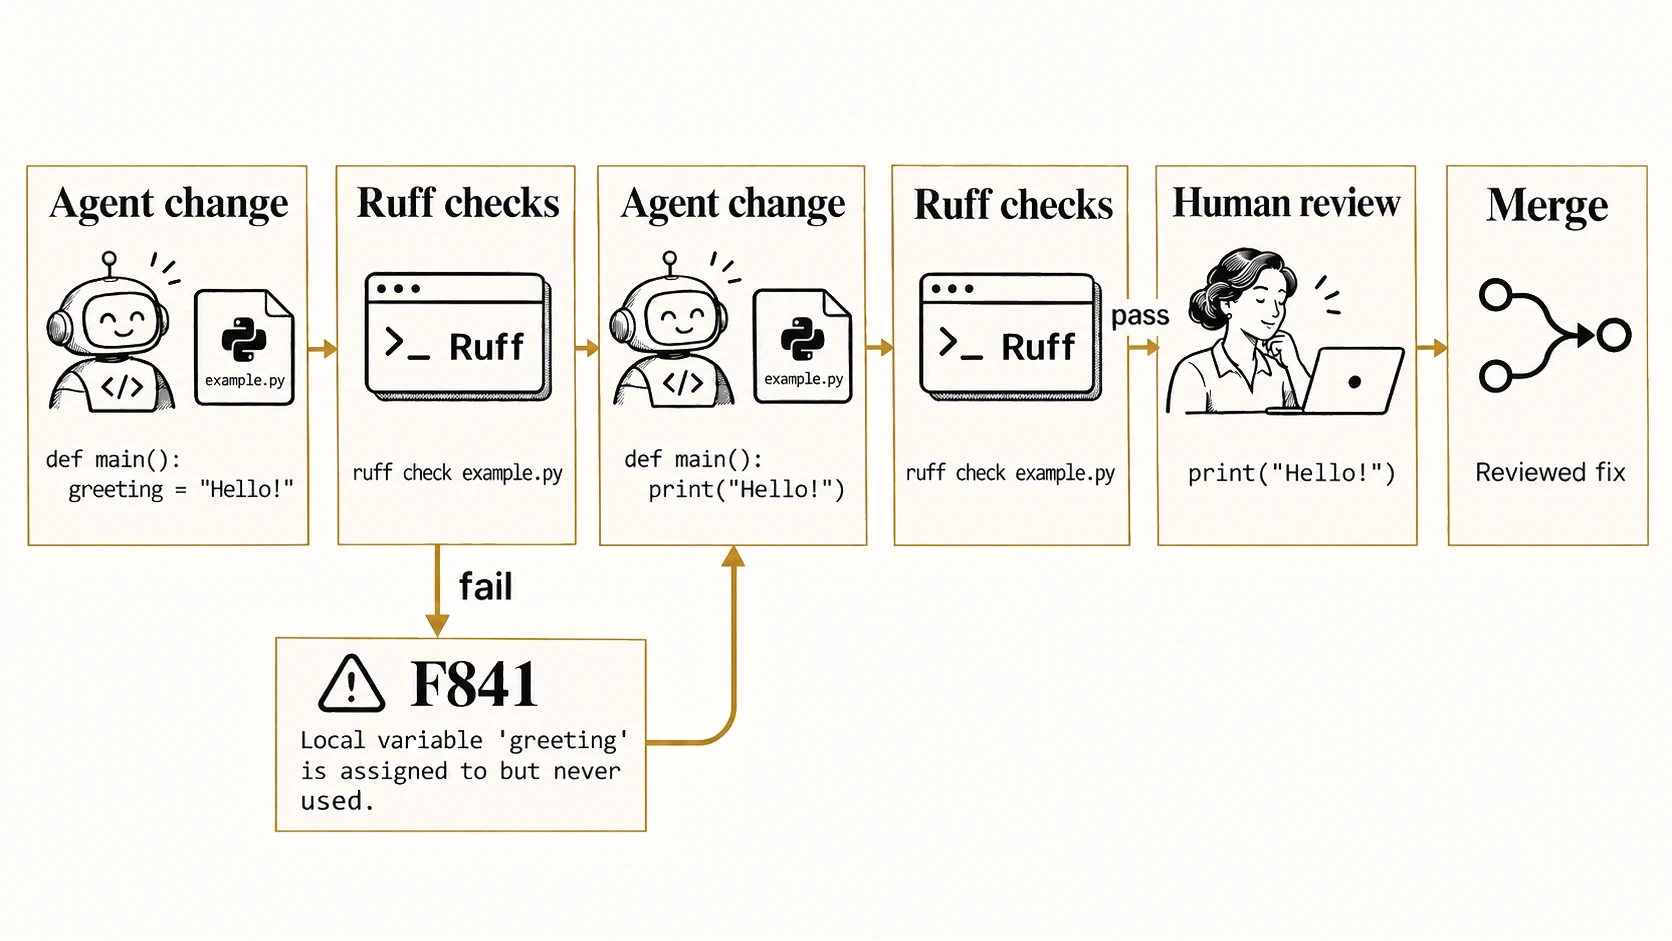
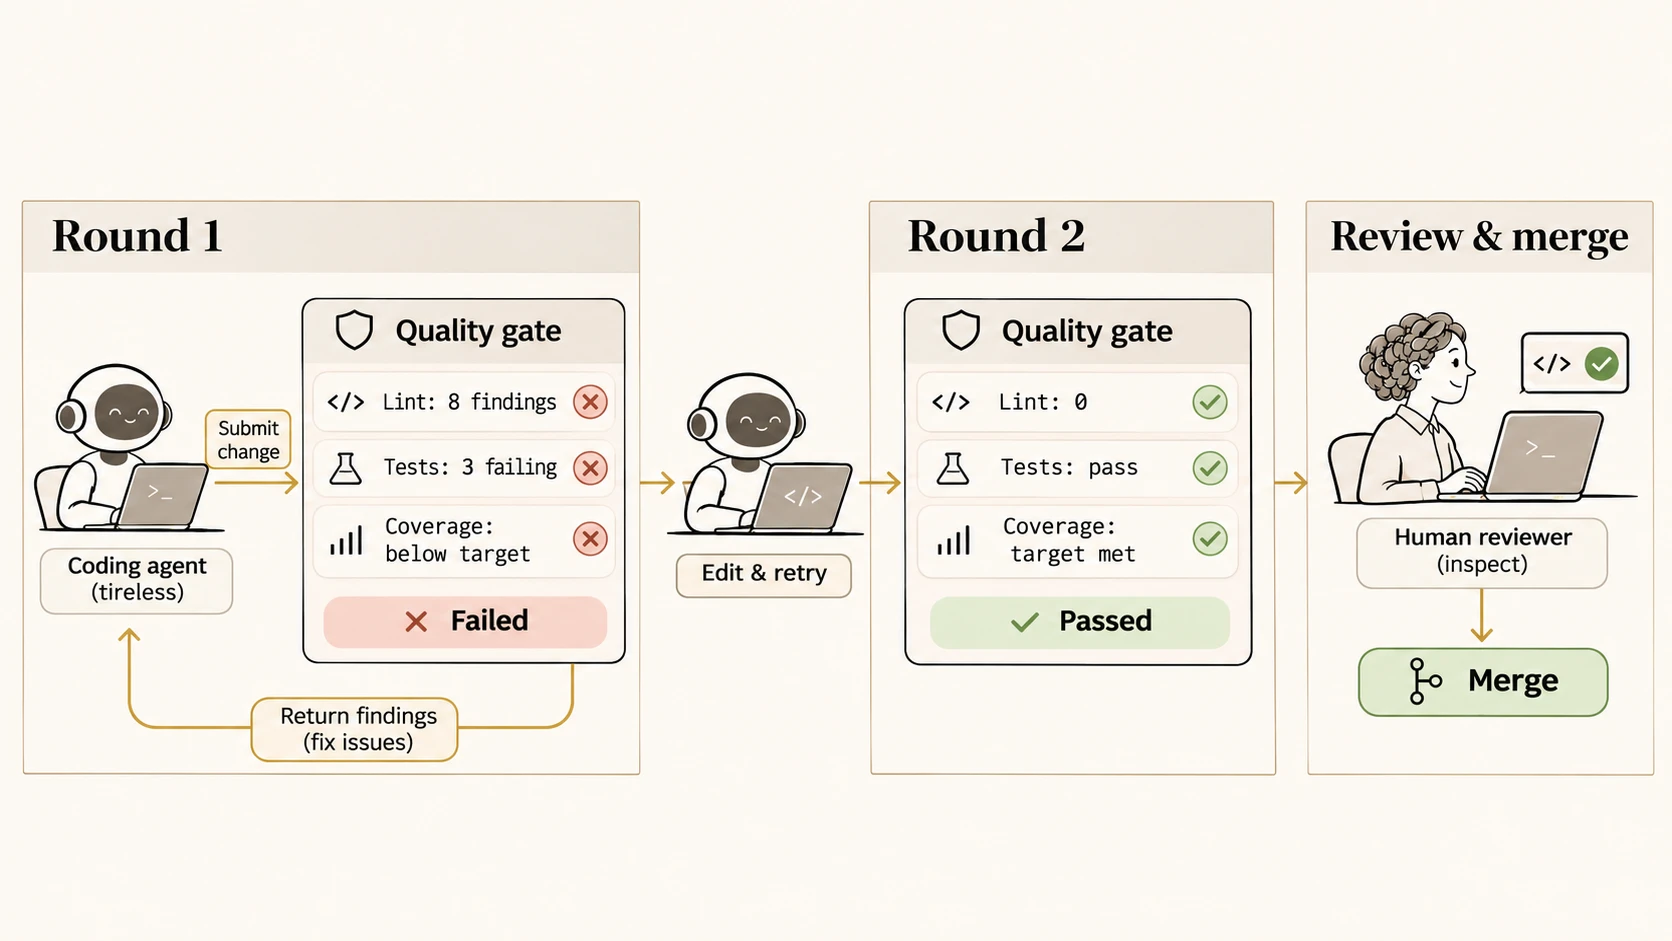
feat(quality-gates): show tireless check iterations (#47)
## Summary

- Replace the Ruff-specific example with two rounds of lint, test, and
coverage checks, followed by human review.
- Update the illustration prompt, alternative text, and speaker notes to
match the new workflow.

## Drive-by cleanup

- Sync both machine-readable full-text summaries with the revised
example.

## Validation

- `just render`
- `git diff --check`

diff --git a/media/README.md b/media/README.md
@@ -7,9 +7,10 @@ panels with subtle contrast. Keep large background fills light; reserve other
 colours for small semantic accents. `devex-agentex.webp`,
 `one-command-setup.webp`, `session-hygiene.webp`, and `know-thy-tools.webp`
 guide the remaining visual style for new and restyled art.
-The quality-gates practice example uses a generated Ruff F841 feedback
-loop. Context rot and its management are shown in a paired illustration
-sequence. The setup contrast illustrates a shared one-command entry point.
+The quality-gates practice example shows an agent repeating strict checks
+until they pass, then handing the change to a human reviewer. Context rot and
+its management are shown in a paired illustration sequence. The setup contrast
+illustrates a shared one-command entry point.
 The automation examples demonstrate dependency updates and PR screenshot
 workflows. The tool-affordance examples were checked against current official
 docs. Final assets are WebP; the social card is the deck's
@@ -29,26 +30,24 @@ Create a 16:9 editorial glossary illustration with exactly four equal cards in a
 
 ## guardrails-workflow.webp
 
-The quality-gates practice workflow shows an unused local variable inside a
-function, the Ruff command, precise F841 feedback, an agent correction that
-replaces the unused assignment with a direct print, human review, and merge.
-The finding arrow returns to the corrected agent change. Code samples are
-unboxed within their stage panels. The Python mark, Ruff wordmark, agent,
-reviewer, and Git branch icons make each step easy to scan.
+The quality-gates practice workflow shows two rounds of checks. The first
+finds lint errors, failing tests, and coverage below target; the agent fixes
+the issues and retries. The second round passes all checks before a human
+reviews and merges the change.
 
 ```text
 Create a spacious 16:9 landscape diagram in the deck's ivory and warm-stone
 editorial style, with near-black ink, gold hairlines and arrows, serif stage
-headings, monospace code, and simple Python, Ruff, coding-agent, reviewer, and
-Git branch icons. Use only ivory (#fdfaf3), warm stone (#e9e5db), near-black
-ink (#141414), and restrained gold (#dac284) for hairlines and arrows. Show
-the workflow: Agent change (`def main():` then `greeting = "Hello!"`), Ruff
-checks (`ruff check example.py`), and an F841 message saying the local variable
-'greeting' is assigned but never used. A return arrow leads from the finding
-to a corrected agent change (`def main():` then `print("Hello!")`), followed
-by a second Ruff check, pass, human review, and merge. Keep code samples
-unboxed inside their stage panels. Keep the code and error accurate, legible,
-and sparse. No title or slogan.
+headings, legible sans-serif labels, and a friendly coding-agent robot and
+human reviewer. Use a bright ivory (#fdfaf3) canvas, pale warm-stone
+(#e9e5db) panels, near-black ink (#141414), and restrained gold (#dac284) for
+hairlines and arrows. Show two rounds: round one reports "Lint: 8 findings",
+"Tests: 3 failing", and "Coverage: below target". Return findings to the
+tireless coding agent to edit and retry. Round two reports "Lint: 0",
+"Tests: pass", and "Coverage: target met". Then send the passing change to
+human review and merge. Make the feedback loop and forward progression
+unmistakable, with sparse, readable text. No Ruff branding, title, slogan,
+footer, decorative rays, or watermark.
 ```
 
 ## sdlc-bottlenecks.webp
